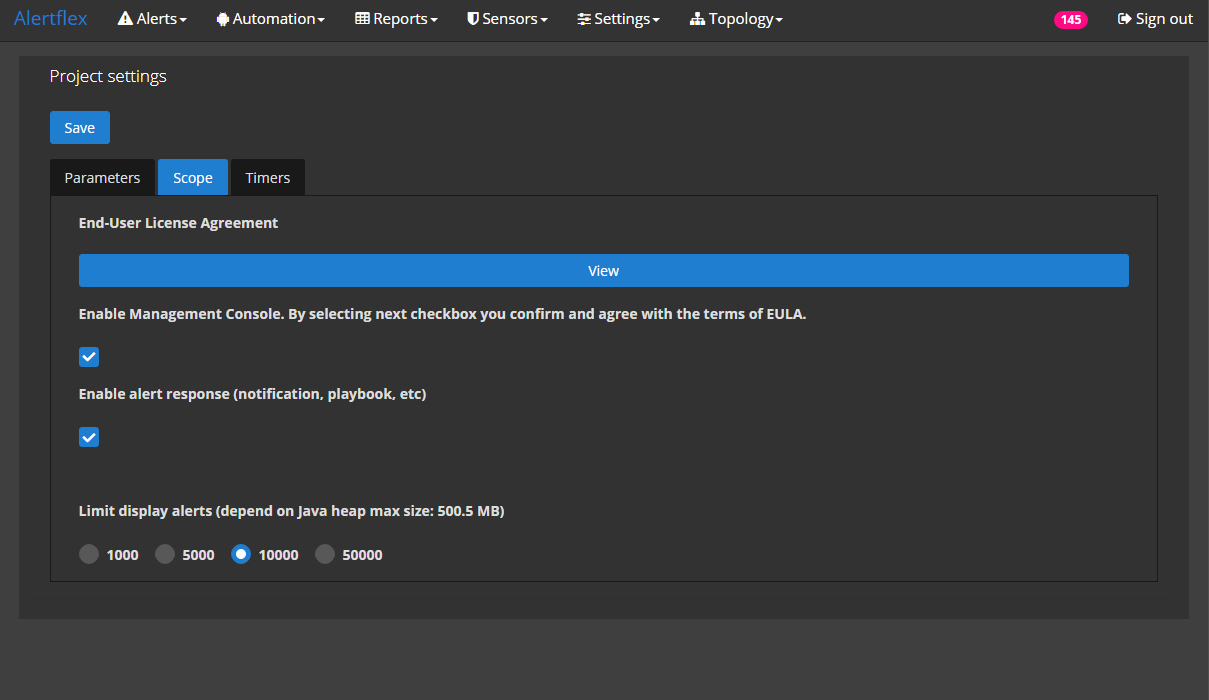
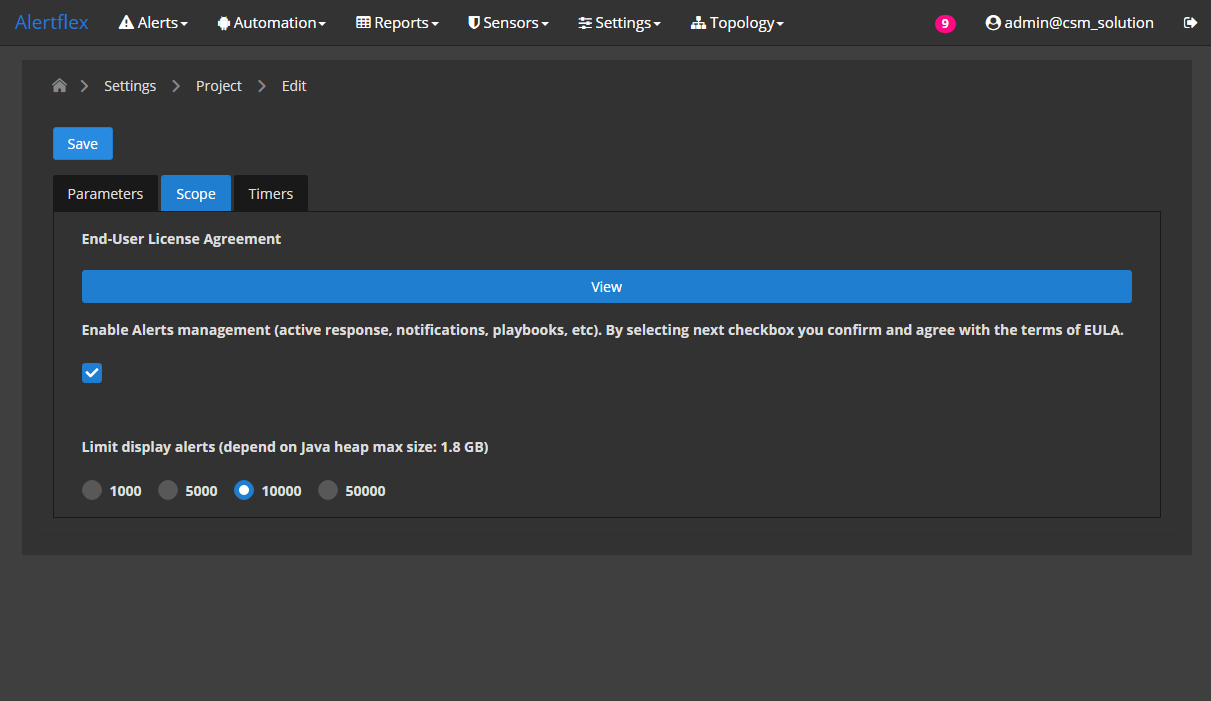
release 0.701

diff --git a/doc/searchindex.js b/doc/searchindex.js
@@ -1,1 +1,1 @@
-Search.setIndex({docnames:["index","pages/architecture","pages/config_altprobe","pages/config_cnode","pages/install_altprobe","pages/install_cnode","pages/integration","pages/notices"],envversion:{"sphinx.domains.c":2,"sphinx.domains.changeset":1,"sphinx.domains.citation":1,"sphinx.domains.cpp":3,"sphinx.domains.index":1,"sphinx.domains.javascript":2,"sphinx.domains.math":2,"sphinx.domains.python":2,"sphinx.domains.rst":2,"sphinx.domains.std":1,sphinx:56},filenames:["index.rst","pages\\architecture.rst","pages\\config_altprobe.rst","pages\\config_cnode.rst","pages\\install_altprobe.rst","pages\\install_cnode.rst","pages\\integration.rst","pages\\notices.rst"],objects:{},objnames:{},objtypes:{},terms:{"00z":6,"02d2a1d8b353ba2bf59ca381f1836ebd":6,"09t00":6,"09t20":6,"10gb":4,"11z":6,"168":6,"1797":2,"19023":2,"192":6,"1a53f4c9c6d3":6,"200":6,"2000":7,"2004":7,"2005":7,"2006":7,"2020":6,"20gb":5,"2gb":4,"3532c56d":6,"3de":7,"443":5,"4848":5,"48be":6,"4gb":5,"55715":[2,3],"5715":[2,3],"61617":5,"8080":6,"8181":6,"8443":5,"8gb":5,"default":[3,5],"new":[2,3],"return":6,"true":[2,3],"var":[2,3,4],AES:7,AND:7,ARE:7,BUT:7,DNS:5,FOR:7,For:[1,2,3,5,6],IDS:[0,1,2,4,6],NOT:7,SUCH:7,THE:7,TLS:1,The:[1,2,3,5,7],Their:7,USE:7,WITH:7,_falco_log:2,_suri_log:2,_wazuh_log:2,a2ad:6,about:6,abov:[2,3,7],access:[1,5],accord:6,action:[2,3,7],activemq:[1,3,5,7],adapt:6,add:6,added:[2,3],address:5,admin:[3,5,6],advis:7,after:[4,5,6],agent:[1,2,3],aggreg:[2,3],agreement:5,alert:[0,2,3,4],alertflex:[1,2,3,4,5],alertlex:5,all:7,allianc:0,allow:[1,2],alon:1,also:[2,3,5],altpob:2,altprob:[0,1,3,5],altprobe_cr:2,altprobe_hid:2,altprobe_nid:2,amazon:1,amount:3,analysi:1,analysisd:2,ani:7,apach:7,api:6,appli:[2,3],applianc:[1,7],applic:[1,3,5],architectur:0,aris:7,associ:7,auth:6,author:7,avail:[1,2,6,7],base:1,basi:1,been:7,befor:[4,5],below:[1,2,3,6,7],between:[1,5],binari:[5,7],blacklist:[2,3],blob:7,blowfish:7,bounci:7,bouncycastl:7,broker:[1,4],browser:5,built:1,busi:7,can:[1,2,3,5],castl:7,cat:[2,3,4],categori:[2,3],caus:7,cento:[1,4,5],central:[0,2],certain:6,certif:5,chang:[2,3],charg:7,check:[3,4,5,6],checkbox:[5,6],chmod:[4,5],christian:7,cipher:7,claim:7,classif:[2,3],clone:[4,5],cloud:1,cluster:1,cnode:[0,4],code:[2,6,7],collect:1,collector:[0,2,3,4,5],com:[4,5,7],come:[2,3],command:0,commun:7,compani:1,compon:[1,5],comput:[1,4,5,7],condit:7,config:[0,2],configur:[0,1,5,6],confirm:5,connect:[1,7],consequenti:7,consist:[1,2,3],consol:[1,2,3,4,5,6,7],contain:1,content:0,continu:1,contract:7,contributor:7,control:[1,6,7],copi:[4,7],copyright:0,could:1,creat:7,cryptographi:7,cti:1,ctrl:6,curl:6,cybersecur:0,damag:7,dashboard:4,data:[2,7],deal:7,dedic:[2,3],depart:7,dequeu:3,deriv:7,desc:[2,3],describ:[2,3],descript:[2,3],design:0,differ:[1,2,3],direct:7,directli:1,directori:[2,3,4],disclaim:7,disk:[4,5],distribut:[1,7],document:7,domain:1,download:[4,5],draw:1,dure:[2,3,5,6],dynam:[2,3],ea72:6,easili:1,ecosystem:0,edit:[6,7],edr:1,elast:7,elasticsearch:6,elasticstack:0,enabl:[0,5],end:[1,5],endors:7,enqueu:3,env:[3,4,5],env_exampl:4,env_loc:4,environ:1,equal:3,error:[3,4],etc:[2,3,4,5,6],eth:7,ethz:7,eula:5,even:7,event:[1,2,3,6,7],everi:[2,3],exampl:[1,2,3,4,5,6],example_env:5,exchang:1,execd:2,execut:[5,6],exemplari:7,expand:1,express:7,falco:2,falco_conf:2,falco_loc:2,falco_log:2,falco_redi:2,falco_rul:2,feder:7,feed:5,file:[1,2,3,4,5,6,7],fill:[4,5],filter:0,finish:5,fit:7,five:1,fix:6,flghost:[2,3],folder:[2,3],follow:7,form:[1,2,3,6,7],format:[2,3,6],free:7,from:[0,1,2,3,4,7],furnish:7,ganym:7,geolite2:7,get:[4,5,6],git:[4,5],github:[4,5,7],give:1,glassfish:1,good:7,grafana:0,grant:7,gray_list:[2,3],graylist:[2,3],grep:[3,4],hard:[4,5],has:6,hash:6,have:7,herebi:7,hid:[2,3],high:[0,5],holder:7,host:[1,2,4,5,6],hostnam:5,how:[3,4,5],howev:7,http:[4,5,6,7],hybrid:1,ident:6,identity_class:6,implement:[1,7],impli:7,in_period:[2,3],incident:7,includ:[1,2,7],indef:[2,3],index:6,indirect:7,inf:7,info:[4,6],inform:6,infrastructur:1,insid:1,instal:[0,1,7],install_ubuntu:[4,5],institut:7,integr:[0,1,5],interact:[5,6],interfac:6,interrupt:7,interv:6,ioc:5,isn:2,its:7,java:[1,7],job_nam:6,json:[2,3],kibana:6,kind:7,known:1,land:5,legion:7,less:[4,5],level0:[2,3],level1:[2,3],level2:[2,3],level:[0,2,3],liabil:7,liabl:7,lib:2,licens:[5,7],limit:7,linux:[1,5,6],list:7,load:[2,3],locat:[2,3],log:[1,2,3,4,6],logcollector:2,logic:1,login:[4,5],logstash:7,loss:7,low:0,machin:[1,4,5],mai:7,maild:2,main:[5,6],make:1,manag:[0,1,2,5,6,7],master:7,match:[2,3],materi:7,maxmind:7,md5:6,memori:[4,5],menu:5,merchant:7,merg:7,messag:[1,3],met:7,metric:0,metrics_path:6,micro:1,microservic:1,minimum:[1,4,5],misp:[5,7],model:1,modif:[2,3,7],modifi:[2,3,7],modulesd:2,monitor:1,monitord:2,multi:1,must:7,mysql:[1,7],name:[6,7],namespac:1,need:[4,5],neglig:7,neither:7,netflow:0,network:1,new_categori:[2,3],new_descript:[2,3],new_ev:[2,3],new_sever:[2,3],new_sourc:[2,3],new_typ:[2,3],next:[2,3,5],nginx:7,node:[0,2,3],noninfring:7,nor:7,note:6,notic:0,now:5,nta:1,object:6,obtain:7,one:1,open:[0,1,2,3,4,5],opendistro:0,oper:[2,3],org:7,ossec:2,other:[1,7],otherwis:7,out:7,outsid:1,owner:7,packag:7,page:5,panel:[3,5],paragraph:5,paramet:[2,4,5,6],part:[2,3],parti:1,particular:7,password:[3,5,6],pattern:6,payara:[1,5,6,7],pem:4,perform:[5,6],permiss:7,permit:7,person:7,ping:6,place:1,plan:4,plattner:7,pleas:[4,5],polici:0,port:[5,6],portion:7,possibl:7,post:[0,4],premis:1,present:[4,6],prior:7,procedur:4,process:2,procur:7,product:7,profil:[2,3],profit:7,project:[1,4,5,6,7],prometheu:0,promot:7,protocol:1,provid:[5,7],pseudo:6,publish:7,purpos:7,python:6,queue:3,rais:6,reachabl:5,read:[1,2,5],readi:5,real:1,reboot:[4,5,6],receiv:[0,1],recommend:5,record:6,redi:1,redistribut:7,ref:5,releas:7,reload:3,remot:[2,5],reproduc:[2,3,7],request:6,requir:[0,3,6],reserv:7,respons:[2,3],rest:6,restart:[2,5],restrict:7,retain:7,right:7,root:[2,4],rule:[0,2],ruleset:2,run:2,runtim:1,scale:1,scheme:1,scienc:7,scope:5,script:7,section:[4,5],secur:[0,1],see:[1,4,5],segment:1,select:[4,5,6],sell:7,send:0,sensor:[0,1],separ:1,server:[1,5,6],servic:[5,6,7],set:[3,5,6],sever:[1,2,3,6],shall:7,shifter:0,should:[3,4,5],shown:7,singl:1,slightli:7,soar:1,softwar:[1,7],solut:[1,5],sourc:[1,7],special:7,specif:[4,5,7],sql:6,ssh:[5,7],ssl:[1,5],stack:1,stand:1,start:[2,3,4,5,6],state:7,static_config:6,statu:[2,4,6],stix:0,stop:[2,6],storag:1,store:[2,3],stream:1,strict:7,subject:7,sublicens:7,substanti:7,substitut:7,support:1,suri_conf:2,suri_loc:2,suri_log:2,suri_redi:2,suri_rul:2,suricata:[2,6],swiss:7,syscheckd:2,syslog:[3,4],system:[2,3,4,5,6],taken:7,target:6,tcp:5,technolog:[1,7],test:[4,5],than:[4,5],theori:7,thi:[4,5,7],third:1,threshold:[2,3],time:[1,6],togeth:1,tort:7,translat:6,transmit:6,troubleshoot:[0,5],txt:7,type:[5,6],ubuntu:[1,4,5],udp:5,under:[1,4,5],usag:2,use:[1,4,5,7],used:[1,7],user:[3,5],usernam:6,using:[1,6],version:[1,2,3,4,5],via:[2,3,5,6],view:6,virtual:[1,4,5],visibl:1,wai:7,want:6,warranti:7,wazuh:[2,3,7],wazuh_conf:2,wazuh_loc:2,wazuh_log:2,wazuh_redi:2,wazuh_rul:2,web:[2,3,5,6],well:1,what:7,where:[1,6],whether:7,which:[1,4],whitelist:[2,3],whom:7,without:7,work:1,worker:7,written:7,www:7,x_org_alertflex:6,xxxxxxx:6,xxxxxxxx:6,yaml:2,yml:6,you:[4,5,6],your:6,zurich:7},titles:["Welcome to Alertflex\u2019s documentation!","Architecture","Configuration of Altprobe","Configuration of Cnode","Installation of Altprobe","Installation of Cnode","Integrations","Copyright notices"],titleterms:{IDS:3,alert:6,alertflex:[0,6],allianc:6,altprob:[2,4],architectur:1,central:[1,3],cnode:[3,5],collector:1,command:2,config:3,configur:[2,3],copyright:7,cybersecur:6,design:1,document:0,ecosystem:6,elasticstack:6,enabl:6,filter:[2,3],from:6,grafana:6,high:1,instal:[4,5],integr:6,level:1,low:1,manag:3,metric:6,netflow:6,node:1,notic:7,open:6,opendistro:6,polici:[2,3],post:5,prometheu:6,receiv:6,requir:[4,5],rule:3,secur:2,send:6,sensor:2,shifter:6,stix:6,troubleshoot:3,welcom:0}})
+Search.setIndex({docnames:["index","pages/architecture","pages/config_altprobe","pages/config_cnode","pages/install_altprobe","pages/install_cnode","pages/integration","pages/notices"],envversion:{"sphinx.domains.c":2,"sphinx.domains.changeset":1,"sphinx.domains.citation":1,"sphinx.domains.cpp":3,"sphinx.domains.index":1,"sphinx.domains.javascript":2,"sphinx.domains.math":2,"sphinx.domains.python":2,"sphinx.domains.rst":2,"sphinx.domains.std":1,sphinx:56},filenames:["index.rst","pages\\architecture.rst","pages\\config_altprobe.rst","pages\\config_cnode.rst","pages\\install_altprobe.rst","pages\\install_cnode.rst","pages\\integration.rst","pages\\notices.rst"],objects:{},objnames:{},objtypes:{},terms:{"00z":6,"02d2a1d8b353ba2bf59ca381f1836ebd":6,"09t00":6,"09t20":6,"10gb":4,"11z":6,"168":6,"1797":2,"19023":2,"192":6,"1a53f4c9c6d3":6,"200":6,"2000":7,"2004":7,"2005":7,"2006":7,"2020":6,"20gb":5,"2gb":4,"3532c56d":6,"3de":7,"443":5,"4848":5,"48be":6,"4gb":5,"512":3,"55715":[2,3],"5715":[2,3],"61617":5,"8080":6,"8181":6,"8443":5,"8gb":5,"default":[3,5],"new":[2,3],"return":6,"true":[2,3],"var":[2,3,4],AES:7,AND:7,ARE:7,BUT:7,DNS:5,FOR:7,For:[1,2,3,5,6],IDS:[0,1,2,4,6],NOT:7,SUCH:7,THE:7,TLS:1,The:[1,2,3,5,7],Their:7,USE:7,WITH:7,_falco_log:2,_suri_log:2,_wazuh_log:2,a2ad:6,about:6,abov:[2,3,7],access:[1,5],accord:6,action:[2,3,7],activemq:[1,3,5,7],adapt:6,add:6,added:[2,3],address:5,admin:[3,5,6],advis:7,after:[4,5,6],agent:[1,2,3],aggreg:[2,3],agreement:5,alert:[0,2,3,4],alertflex:[1,2,3,4,5],alertlex:5,all:7,allianc:0,allow:[1,2],alon:1,also:[2,3,5],altpob:2,altprob:[0,1,3,5],altprobe_cr:2,altprobe_hid:2,altprobe_nid:2,amazon:1,amount:3,analysi:1,analysisd:2,ani:7,apach:7,api:6,appli:[2,3],applianc:[1,7],applic:[0,1,5],architectur:0,aris:7,asadmin:3,associ:7,auth:6,author:7,avail:[1,2,6,7],base:1,basi:1,been:7,befor:[4,5],below:[1,2,3,6,7],between:[1,5],binari:[5,7],blacklist:[2,3],blob:7,blowfish:7,bounci:7,bouncycastl:7,broker:[1,4],browser:5,built:1,busi:7,can:[1,2,3,5],castl:7,cat:[2,3,4],categori:[2,3],caus:7,cento:[1,4,5],central:[0,2],certain:6,certif:5,chang:[2,3],charg:7,check:[3,4,5,6],checkbox:[5,6],chmod:[4,5],christian:7,cipher:7,claim:7,classif:[2,3],clone:[4,5],cloud:1,cluster:1,cnode:[0,1,4],code:[2,6,7],collect:1,collector:[0,2,3,4,5],com:[4,5,7],come:[2,3],command:[0,3],commun:7,compani:1,compon:[1,5],comput:[1,3,4,5,7],condit:7,config:[0,2],configur:[0,1,5,6],confirm:5,connect:[1,7],consequenti:7,consist:[1,2,3],consol:[1,2,3,4,5,6,7],contain:1,content:0,continu:1,contract:7,contributor:7,control:[1,6,7],copi:[4,7],copyright:0,could:1,creat:[3,7],cryptographi:7,cti:1,ctrl:6,curl:6,cybersecur:0,damag:7,dashboard:4,data:[2,7],deal:7,dedic:[2,3],delet:3,depart:7,deploy:3,dequeu:3,deriv:7,desc:[2,3],describ:[2,3],descript:[2,3],design:0,detail:1,differ:[1,2,3],direct:7,directli:1,directori:[2,3,4],disclaim:7,disk:[4,5],distribut:[1,7],document:7,domain1:3,domain:[1,3],download:[4,5],dure:[2,3,5,6],dynam:[2,3],ea72:6,easili:1,ecosystem:0,edit:[6,7],edr:1,elast:7,elasticsearch:6,elasticstack:0,enabl:[0,5],end:[1,5],endors:7,enough:3,enqueu:3,env:[3,4,5],env_exampl:4,env_loc:4,environ:1,equal:3,error:[3,4],etc:[2,3,4,5,6],eth:7,ethz:7,eula:5,even:7,event:[1,2,3,6,7],everi:[2,3],exampl:[1,2,3,4,5,6],example_env:5,exchang:1,execd:2,execut:[5,6],exemplari:7,expand:1,express:7,falco:2,falco_conf:2,falco_loc:2,falco_log:2,falco_redi:2,falco_rul:2,feder:7,feed:5,file:[1,2,3,4,5,6,7],fill:[4,5],filter:0,finish:5,fit:7,five:1,fix:6,flghost:[2,3],folder:[2,3],follow:7,form:[1,2,3,6,7],format:[2,3,6],free:7,from:[0,1,2,3,4,7],furnish:7,ganym:7,geolite2:7,get:[4,5,6],git:[4,5],github:[4,5,7],give:1,glassfish:1,good:7,grafana:0,grant:7,gray_list:[2,3],graylist:[2,3],grep:[3,4],hard:[4,5],has:[3,6],hash:6,have:7,heap:0,herebi:7,hid:[2,3],high:[0,5],holder:7,host:[1,2,4,5,6],hostnam:5,how:[3,4,5],howev:7,http:[4,5,6,7],hybrid:1,ident:6,identity_class:6,implement:[1,7],impli:7,in_period:[2,3],incident:7,includ:[1,2,7],increas:0,indef:[2,3],index:6,indirect:7,inf:7,info:[4,6],inform:6,infrastructur:1,insid:1,instal:[0,1,7],install_ubuntu:[4,5],institut:7,integr:[0,1,5],interact:[5,6],interfac:6,interrupt:7,interv:6,ioc:5,isn:[2,3],its:7,java:[1,7],job_nam:6,json:[2,3],jvm:0,kibana:6,kind:7,known:1,land:5,legion:7,less:[4,5],level0:[2,3],level1:[2,3],level2:[2,3],level:[0,2,3],liabil:7,liabl:7,lib:2,licens:[5,7],limit:7,linux:[1,5,6],list:7,load:[2,3],locat:[2,3],log:[1,2,3,4,6],logcollector:2,logic:1,login:[4,5],logstash:7,loss:7,low:0,machin:[1,3,4,5],mai:7,maild:2,main:[5,6],make:1,manag:[0,1,2,5,6,7],master:7,match:[2,3],materi:7,maxmind:7,md5:6,memori:[3,4,5],menu:5,merchant:7,merg:7,messag:[1,3],met:7,metric:0,metrics_path:6,micro:1,microservic:1,minimum:[1,4,5],misp:[5,7],model:1,modif:[2,3,7],modifi:[2,3,7],modulesd:2,monitor:1,monitord:2,more:3,multi:1,must:7,mysql:[1,7],name:[6,7],namespac:1,need:[4,5],neglig:7,neither:7,netflow:0,network:1,new_categori:[2,3],new_descript:[2,3],new_ev:[2,3],new_sever:[2,3],new_sourc:[2,3],new_typ:[2,3],next:[2,3,5],nginx:7,node:[0,2,3],noninfring:7,nor:7,note:6,notic:0,now:5,nta:1,object:6,obtain:7,one:1,open:[0,1,2,3,4,5],opendistro:0,oper:[2,3],option:3,org:7,ossec:2,other:[1,7],otherwis:7,out:7,outsid:1,owner:7,packag:7,page:5,panel:[3,5],paragraph:5,paramet:[2,4,5,6],part:[2,3],parti:1,particular:7,password:[3,5,6],pattern:6,payara:[1,3,5,6,7],pem:4,perform:6,permiss:7,permit:7,person:7,ping:6,place:1,plan:4,plattner:7,pleas:[4,5],polici:0,port:[5,6],portion:7,possibl:7,post:[0,4],premis:1,present:[4,6],prior:7,procedur:4,process:2,procur:7,product:[3,7],profil:[2,3],profit:7,project:[1,4,5,6,7],prometheu:0,promot:7,protocol:1,provid:[5,7],pseudo:6,publish:7,purpos:7,python:6,queue:3,rais:6,reachabl:5,read:[1,2,5],readi:5,real:1,reboot:[4,5,6],receiv:[0,1],recommend:5,record:6,redi:1,redistribut:7,ref:5,releas:7,reload:3,remot:[2,5],reproduc:[2,3,7],request:6,requir:[0,3,6],reserv:7,respons:[2,3],rest:6,restart:[2,3,5],restrict:7,retain:7,right:7,root:[2,4],rule:[0,2],ruleset:2,run:2,runtim:1,scale:1,scheme:1,scienc:7,scope:5,script:7,section:[4,5],secur:[0,1],see:[1,4,5],segment:1,select:[4,5,6],sell:7,send:0,sensor:[0,1],separ:1,server:[0,1,5,6],servic:[5,6,7],set:[3,5,6],sever:[1,2,3,6],shall:7,shifter:0,should:[3,4,5],shown:[1,7],singl:1,size:0,slightli:7,soar:1,softwar:[1,7],solut:[1,5],sourc:[1,7],special:7,specif:[4,5,7],sql:6,ssh:[5,7],ssl:[1,5],stack:1,stand:1,start:[2,3,4,5,6],state:7,static_config:6,statu:[2,4,6],stix:0,stop:[2,6],storag:1,store:[2,3],stream:1,strict:7,subject:7,sublicens:7,substanti:7,substitut:7,support:1,suri_conf:2,suri_loc:2,suri_log:2,suri_redi:2,suri_rul:2,suricata:[2,6],swiss:7,syscheckd:2,syslog:[3,4],system:[2,3,4,5,6],taken:7,target:6,tcp:5,technolog:[1,7],test:[4,5],than:[3,4,5],theori:7,thi:[3,4,5,7],third:1,threshold:[2,3],time:[1,6],togeth:1,tort:7,translat:6,transmit:6,troubleshoot:[0,5],txt:7,type:[5,6],ubuntu:[1,4,5],udp:5,under:[1,4,5],usag:2,use:[1,4,5,7],used:[1,7],user:[3,5],usernam:6,uses:3,using:[1,6],version:[1,2,3,4,5],via:[2,3,5,6],view:6,virtual:[1,3,4,5],visibl:1,wai:7,want:6,warranti:7,wazuh:[2,3,7],wazuh_conf:2,wazuh_loc:2,wazuh_log:2,wazuh_redi:2,wazuh_rul:2,web:[2,3,5,6],well:1,what:7,where:[1,6],whether:7,which:[1,4],whitelist:[2,3],whom:7,without:7,work:1,worker:7,written:7,www:7,x_org_alertflex:6,xms3g:3,xmx3g:3,xmx512m:3,xxxxxxx:6,xxxxxxxx:6,yaml:2,yml:6,you:[3,4,5,6],your:[3,6],zurich:7},titles:["Welcome to Alertflex\u2019s documentation!","Architecture","Configuration of Altprobe","Configuration of Cnode","Installation of Altprobe","Installation of Cnode","Integrations","Copyright notices"],titleterms:{IDS:3,alert:6,alertflex:[0,6],allianc:6,altprob:[2,4],applic:3,architectur:1,central:[1,3],cnode:[3,5],collector:1,command:2,config:3,configur:[2,3],copyright:7,cybersecur:6,design:1,document:0,ecosystem:6,elasticstack:6,enabl:6,filter:[2,3],from:6,grafana:6,heap:3,high:1,increas:3,instal:[4,5],integr:6,jvm:3,level:1,low:1,manag:3,metric:6,netflow:6,node:1,notic:7,open:6,opendistro:6,polici:[2,3],post:5,prometheu:6,receiv:6,requir:[4,5],rule:3,secur:2,send:6,sensor:2,server:3,shifter:6,size:3,stix:6,troubleshoot:3,welcom:0}})

diff --git a/index.html b/index.html
@@ -30,6 +30,7 @@
 	<link href="css/style.css" rel="stylesheet"/>
     <link rel="icon" href="img/box.ico"/>
     <link rel="shortcut icon" href="img/box.ico"/>
+	<link rel="stylesheet" href="https://use.fontawesome.com/releases/v5.8.1/css/all.css" integrity="sha384-50oBUHEmvpQ+1lW4y57PTFmhCaXp0ML5d60M1M7uH2+nqUivzIebhndOJK28anvf" crossorigin="anonymous">
   </head>
   <body>
     <!-- Google Tag Manager (noscript) -->
@@ -69,7 +70,7 @@
 				<div class="col-md-12" style="margin-top:20px; padding-bottom:20px">
 					<h1 style="color:#92D1E0; font-size: 28px; ">Open Source Security Automation and Monitoring Solution</h1>
 					<div style="text-align: justify;margin-top:50px; margin-bottom:30px" >
-						<p style="color:#ECF0F1; ">Alertflex project is a free, open-source continuous security monitoring solution designed for use in <strong style="font-size: 18px;font-weight: 400;">Hybrid Clouds</strong> (on-premises and cloud-based IT infrastructure). By monitoring security events and reports from well-known cybersecurity applications, Alertflex gives companies end-to-end security visibility. The project adapts and automates third-party software products into a unified solution based on the <strong style="font-size: 18px;font-weight: 400;">CTI EDR NTA SOAR</strong> technology stack.</p> 
+						<p style="color:#ECF0F1; ">Alertflex project is a free, open-source continuous security monitoring solution designed for use in <strong style="font-size: 18px;font-weight: 400;">Hybrid Clouds</strong> (on-premises and cloud-based IT infrastructure). By monitoring security events and reports from well-known cybersecurity applications, Alertflex gives companies end-to-end security visibility. The project adapts and automates third-party software products into a unified solution based on the <strong style="font-size: 18px;font-weight: 400;">CTI SOAR XDR</strong> technology stack.</p> 
 						<p style="color:#ECF0F1; margin-top:10px; ">Alertflex requires fewer system resources compared with similar products and mostly integrates of free open-source third-party software. It can significantly reduce costs for your cybersecurity monitoring.</p>
 					</div>
 				</div>
@@ -137,8 +138,8 @@
 	<div id="demo" class="container" style="padding-bottom:50px; padding-top:50px; ">
 		<div class="container">
 			<div class="row">
-				<div class="col-md-2" style="padding-top:40px; ">
-					<div style="text-align: justify; left" >
+				<div class="col-md-2 contact_info" style="padding-top:40px; ">
+					<div style="text-align: left" >
 						<p >Alertflex solution includes Management console and  Docker container of MISP platform. To see more screenshots solution's Web UI , please, scroll the right image.</p>
 					</div>
 				</div>
@@ -214,8 +215,9 @@
 	</div>
 	
 	<div id="contact" class="container-alternate" style="padding-bottom:70px; padding-top:70px;">
-		<div class="container">
-			<strong style="color:#ECF0F1; ">Have a question or need tech support, please send an email to our contact address:<a id="github_link" href="mailto:info@alertflex.org"> info@alertflex.org</a></strong> 
+		<div class="container contact_info">
+			<p style="color:#ECF0F1;" >Have a question or need tech support, please send an email to our contact address:<a id="github_link" href="mailto:info@alertflex.org"> info@alertflex.org</a></p>
+			<p id="discord" style="color:#ECF0F1;" >and join the Alertflex community via Discord server by clicking the next icon: <a href="https://discord.gg/wDSz7rDMWv" ><span class="fab fa-discord fa-lg"></span></a></p> 
 		</div>
     </div> <!-- /.container -->
 	
@@ -470,8 +472,9 @@
 				                
                 <div class="col-md-2">
                     <ul class="list-inline social-buttons">
-                        <li><a href="https://github.com/alertflex" ><span class="fa fa-github fa-lg"></span></a></li>
-						<li><a href="https://twitter.com/alertflex" ><span class="fa fa-twitter fa-lg"></span></a></li>
+						<li><a href="https://discord.gg/wDSz7rDMWv" ><span class="fab fa-discord fa-lg"></span></a></li>
+                        <li><a href="https://github.com/alertflex" ><span class="fab fa-github fa-lg"></span></a></li>
+						<li><a href="https://twitter.com/alertflex" ><span class="fab fa-twitter fa-lg"></span></a></li>
                     </ul>
                 </div>
 				                
@@ -486,7 +489,7 @@
 	
 	
 	<div id="feedback">
-		<div id="feedback-tab"><span class="fa fa-github fa-lg"> GitHub</div>
+		<div id="feedback-tab"><span class="fab fa-github fa-lg"> GitHub</div>
 	</div>
 	
 	<script src="js/jquery.js"></script>

diff --git a/doc/pages/config_cnode.html b/doc/pages/config_cnode.html
@@ -94,6 +94,7 @@
 <li class="toctree-l2"><a class="reference internal" href="#filtering-policies">Filtering policies</a></li>
 <li class="toctree-l2"><a class="reference internal" href="#central-management-of-ids-configs">Central management of IDS configs</a></li>
 <li class="toctree-l2"><a class="reference internal" href="#central-management-of-ids-rules">Central management of IDS rules</a></li>
+<li class="toctree-l2"><a class="reference internal" href="#increase-the-application-server-jvm-heap-size">Increase the Application Server JVM heap size</a></li>
 <li class="toctree-l2"><a class="reference internal" href="#troubleshooting">Troubleshooting</a></li>
 </ul>
 </li>
@@ -228,6 +229,23 @@
 <h2>Central management of IDS rules<a class="headerlink" href="#central-management-of-ids-rules" title="Permalink to this headline">¶</a></h2>
 <p>For operations with IDS rules via Alertflex console, open web-form <strong>IDS/config</strong></p>
 <img alt="../_images/ids-rules.png" src="../_images/ids-rules.png" />
+<div class="line-block">
+<div class="line"><br /></div>
+</div>
+</div>
+<div class="section" id="increase-the-application-server-jvm-heap-size">
+<h2>Increase the Application Server JVM heap size<a class="headerlink" href="#increase-the-application-server-jvm-heap-size" title="Permalink to this headline">¶</a></h2>
+<p>By default, Payara AS uses 512 MB of memory for JVM heap.
+This size of memory isn’t enough for the production deployment of Alertflex.
+If your computer/virtual machine has more than 4 Gb memory, you can change JVM heap size
+via Payara AS admin console or by commands:</p>
+<div class="highlight-default notranslate"><div class="highlight"><pre><span></span><span class="o">./</span><span class="n">asadmin</span>
+<span class="n">create</span><span class="o">-</span><span class="n">jvm</span><span class="o">-</span><span class="n">options</span> <span class="s1">&#39;-Xms3g&#39;</span>
+<span class="n">create</span><span class="o">-</span><span class="n">jvm</span><span class="o">-</span><span class="n">options</span> <span class="s1">&#39;-Xmx3g&#39;</span>
+<span class="n">delete</span><span class="o">-</span><span class="n">jvm</span><span class="o">-</span><span class="n">options</span> <span class="s1">&#39;-Xmx512m&#39;</span>
+<span class="n">restart</span><span class="o">-</span><span class="n">domain</span> <span class="n">domain1</span>
+</pre></div>
+</div>
 <div class="line-block">
 <div class="line"><br /></div>
 </div>

diff --git a/css/style.css b/css/style.css
@@ -167,6 +167,16 @@ h1, .h1 {
   font-family: "Roboto", -apple-system, BlinkMacSystemFont, "Segoe UI", Roboto, "Helvetica Neue", Arial, sans-serif;
 }
 
+.contact_info p {
+  font-size: 16px;
+  color: #000;
+  font-weight: 300;
+  margin-top: 21px;
+  margin-bottom: 10.5px;
+  line-height: 1.4;
+  font-family: "Roboto", -apple-system, BlinkMacSystemFont, "Segoe UI", Roboto, "Helvetica Neue", Arial, sans-serif;
+}
+
 .codeblock {
   background-color: #f9f2f4;
   border-color: #fff;
@@ -226,6 +236,28 @@ h1, .h1 {
 .container strong {
   font-size: 16px;
   font-weight: 400;
+}
+
+.contact_info p {
+  font-size: 16px;
+  color: #000;
+  font-weight: 300;
+  margin-top: 21px;
+  margin-bottom: 10.5px;
+  line-height: 1.4;
+  font-family: "Roboto", -apple-system, BlinkMacSystemFont, "Segoe UI", Roboto, "Helvetica Neue", Arial, sans-serif;
+}
+
+#discord a:focus{
+    color: #2E80EE;
+	background-color: transparent;
+    text-decoration: none;
+}
+
+#discord a:hover {
+    color: #2E80EE;
+	background-color: transparent;
+    text-decoration: none;
 }
 
 .h2-emul p {
@@ -472,14 +504,14 @@ footer {
 }
 
 #footer a:focus{
-    color: #0388a6;
+    color: #2E80EE;
 	font-size: 14px;
     background-color: transparent;
     text-decoration: none;
 }
 
 #footer a:hover {
-    color: #0388a6;
+    color: #2E80EE;
 	font-size: 14px;
     background-color: transparent;
     text-decoration: none;

diff --git a/doc/pages/architecture.html b/doc/pages/architecture.html
@@ -201,7 +201,7 @@ The solution can be easily scaled from the stand-alone appliance configuration t
 <p>The minimum configuration of the central node includes Alertflex Java EE applications (Controller, Management console)
 which work under Payara/GlassFish AS and third-party open-source components ActiveMQ, Redis, MySQL. It can be installed on the stand-alone server
 or virtual machine with Linux Centos 7 or Ubuntu 18.04 version. The high availability of the central node is based on cluster configurations
-of third-party components and microservices architecture Alertflex applications. Below a drawing of such a High availability scheme:</p>
+of third-party components and microservices architecture Alertflex applications. Below shown a detailed scheme of Cnode:</p>
 <img alt="../_images/central-node.png" src="../_images/central-node.png" />
 <div class="line-block">
 <div class="line"><br /></div>

diff --git a/doc/index.html b/doc/index.html
@@ -181,6 +181,7 @@
 <li class="toctree-l2"><a class="reference internal" href="pages/config_cnode.html#filtering-policies">Filtering policies</a></li>
 <li class="toctree-l2"><a class="reference internal" href="pages/config_cnode.html#central-management-of-ids-configs">Central management of IDS configs</a></li>
 <li class="toctree-l2"><a class="reference internal" href="pages/config_cnode.html#central-management-of-ids-rules">Central management of IDS rules</a></li>
+<li class="toctree-l2"><a class="reference internal" href="pages/config_cnode.html#increase-the-application-server-jvm-heap-size">Increase the Application Server JVM heap size</a></li>
 <li class="toctree-l2"><a class="reference internal" href="pages/config_cnode.html#troubleshooting">Troubleshooting</a></li>
 </ul>
 </li>

diff --git a/doc/pages/install_cnode.html b/doc/pages/install_cnode.html
@@ -264,7 +264,7 @@ Next TCP/UDP ports should be open for interaction between solution components an
 </ul>
 <img alt="../_images/misp-config.png" src="../_images/misp-config.png" />
 <ul class="simple">
-<li><p>Perform of reboot Linux system or restart Payara server (see paragraph Troubleshooting in section “Configuration of Cnode”, how to restart Payara AS)</p></li>
+<li><p>Reboot Linux system or restart Payara server (see paragraph Troubleshooting in section “Configuration of Cnode”, how to restart Payara AS)</p></li>
 <li><p>Now, Cnode should be ready for service and you can start the installation of collectors (altprobe)</p></li>
 </ul>
 </div>
